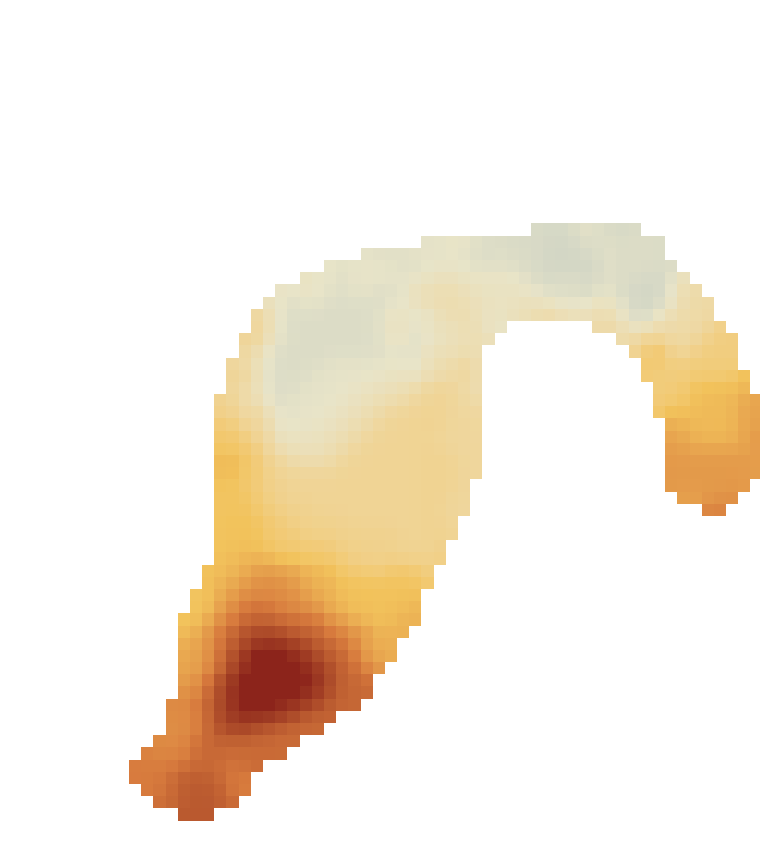
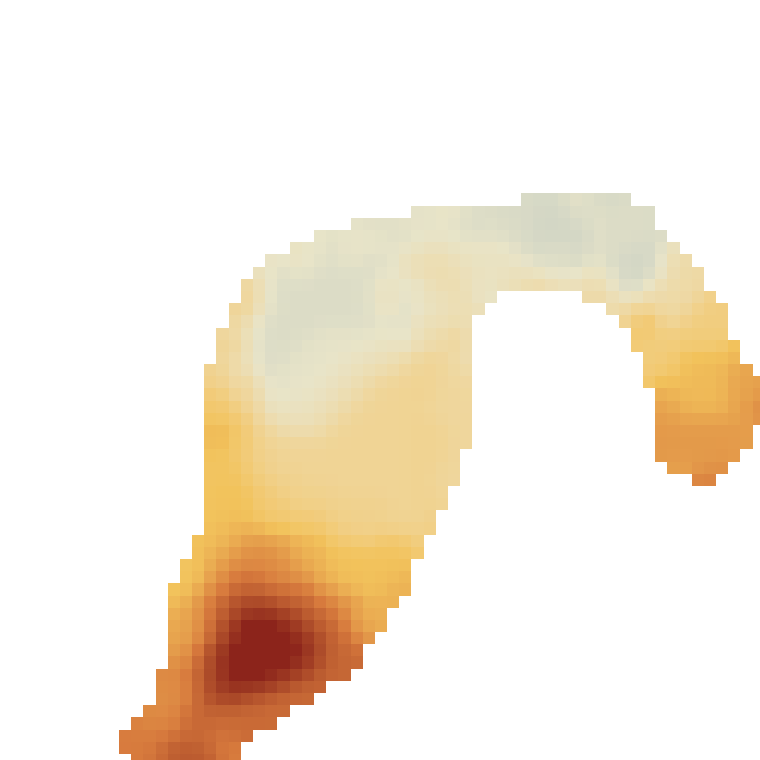
fˆ$#

diff --git a/styles.css b/styles.css
@@ -290,34 +290,21 @@ h2.section-heading,
   background: #f8f5ef;
 }
 
-.notation-grid {
-  display: grid;
-  grid-template-columns: repeat(3, minmax(0, 1fr));
-  gap: 0.88rem;
+.notation-strip {
+  display: flex;
+  flex-wrap: wrap;
+  gap: 0.7rem;
   margin-bottom: 2.8rem;
 }
 
-.notation-item,
-.reference-item {
-  padding: 0.95rem 1rem;
-  font-size: 0.95rem;
-  background: linear-gradient(180deg, #fffdfa 0%, #faf7f1 100%);
-}
-
-.notation-item code,
+.notation-strip code,
 .reference-item code {
   display: inline-block;
-  margin-bottom: 0.38rem;
-  padding: 0.18rem 0.46rem;
+  padding: 0.24rem 0.52rem;
   border-radius: 999px;
   background: var(--sp-blue-soft);
   color: var(--sp-ink);
   font-size: 0.93rem;
-}
-
-.notation-item {
-  text-align: center;
-  text-transform: lowercase;
 }
 
 .quick-grid,